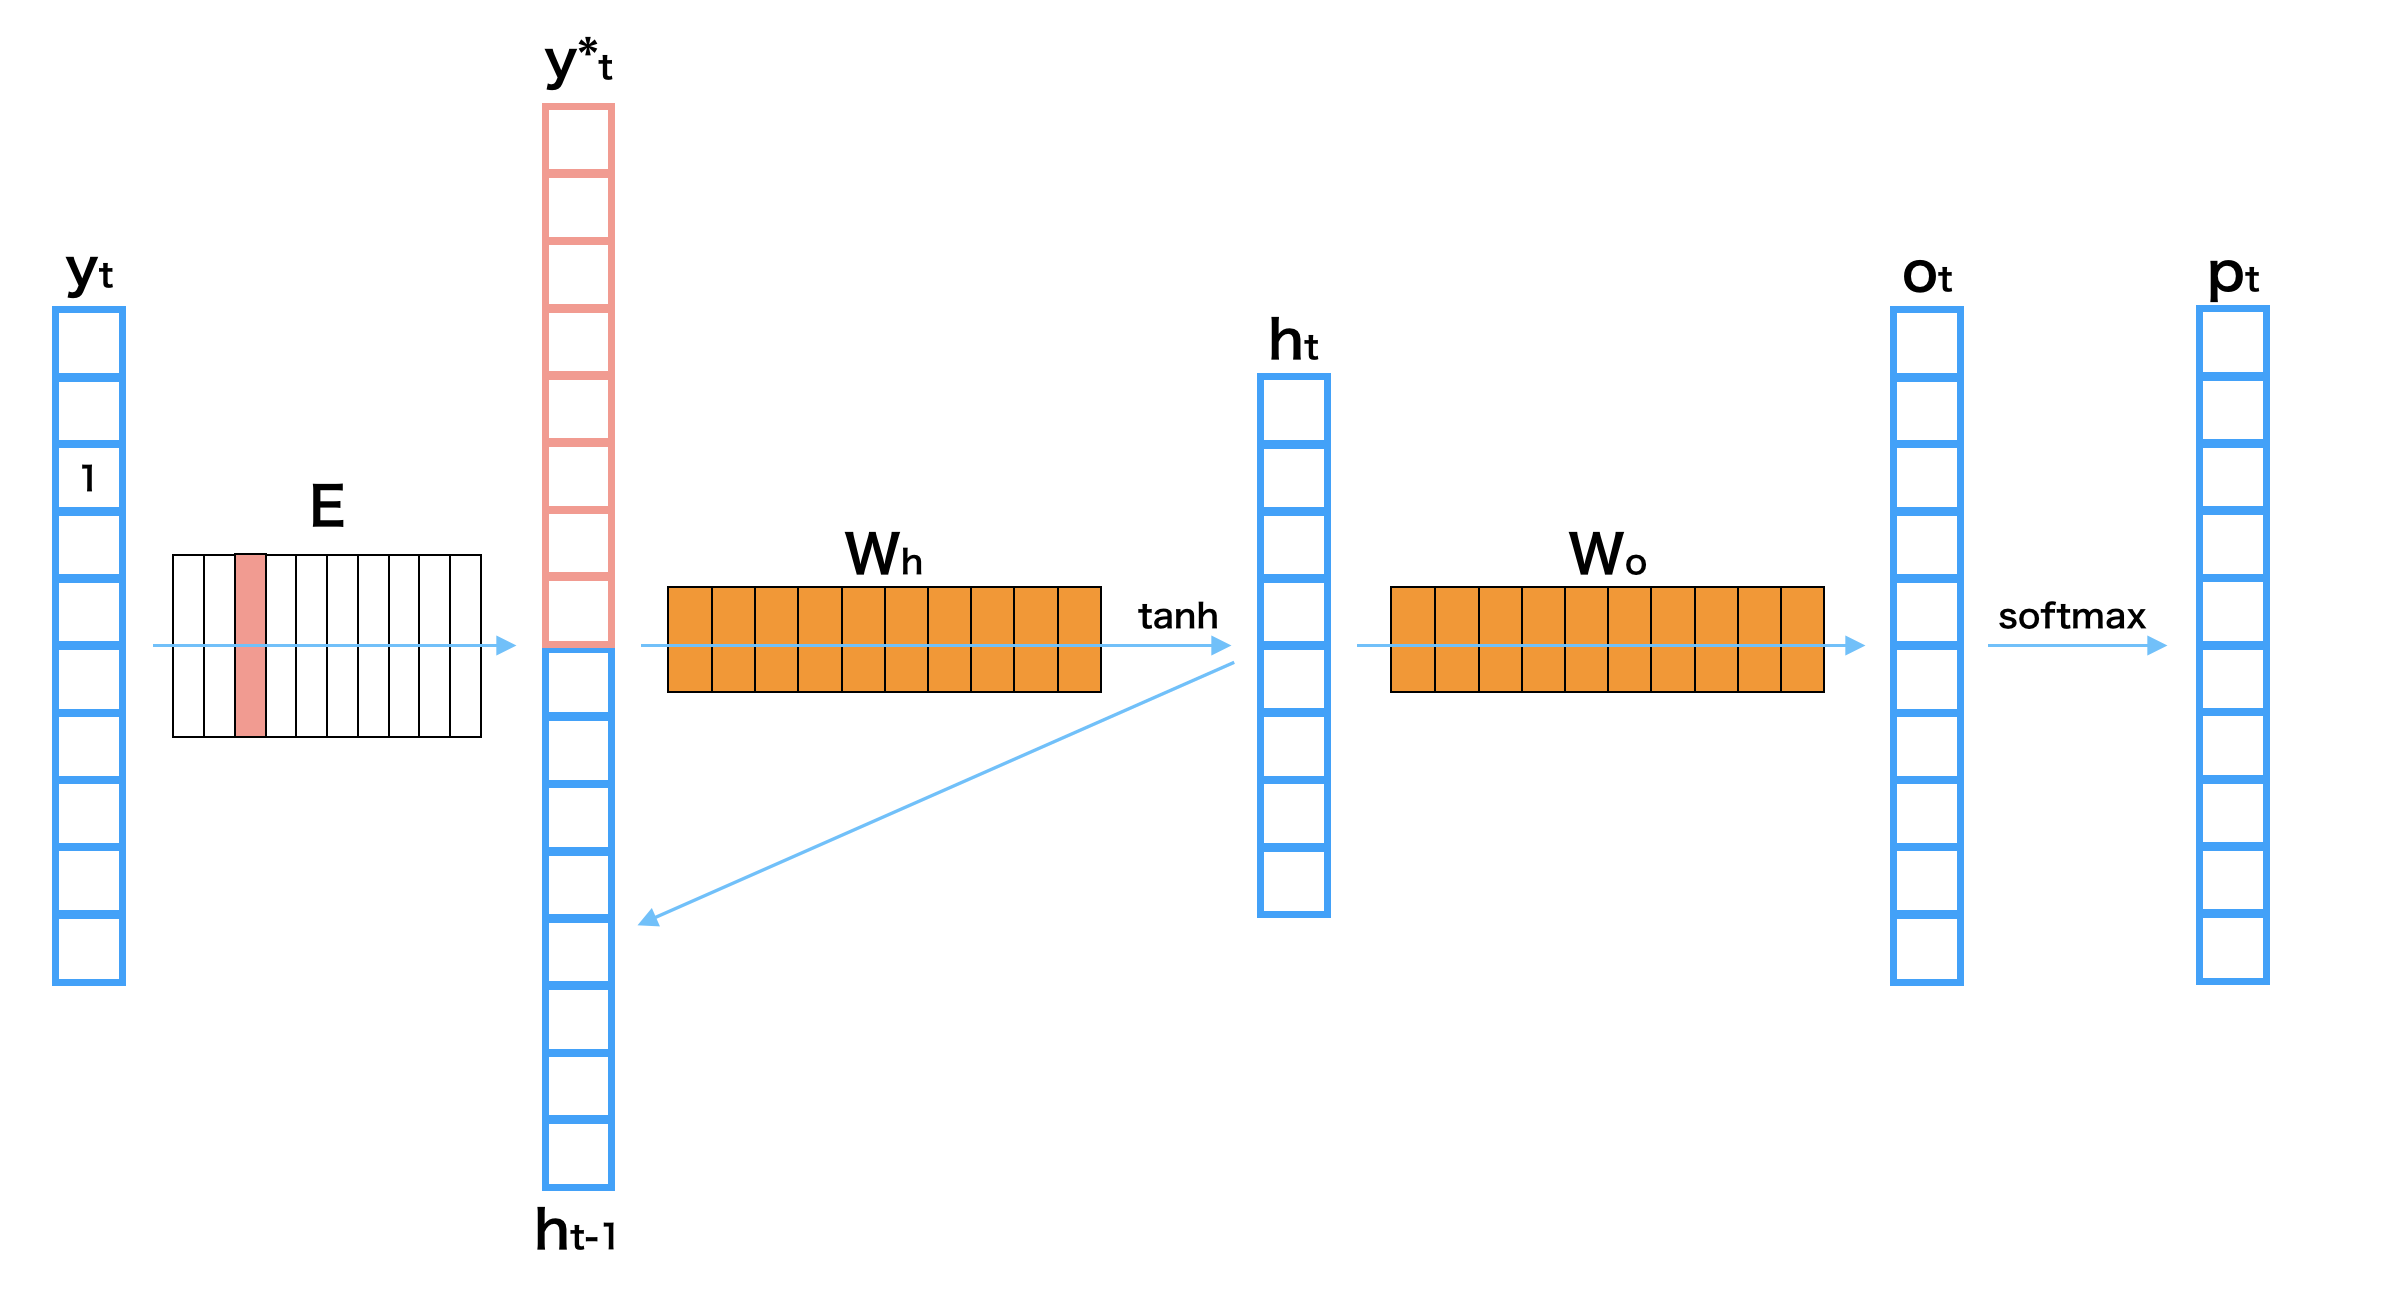
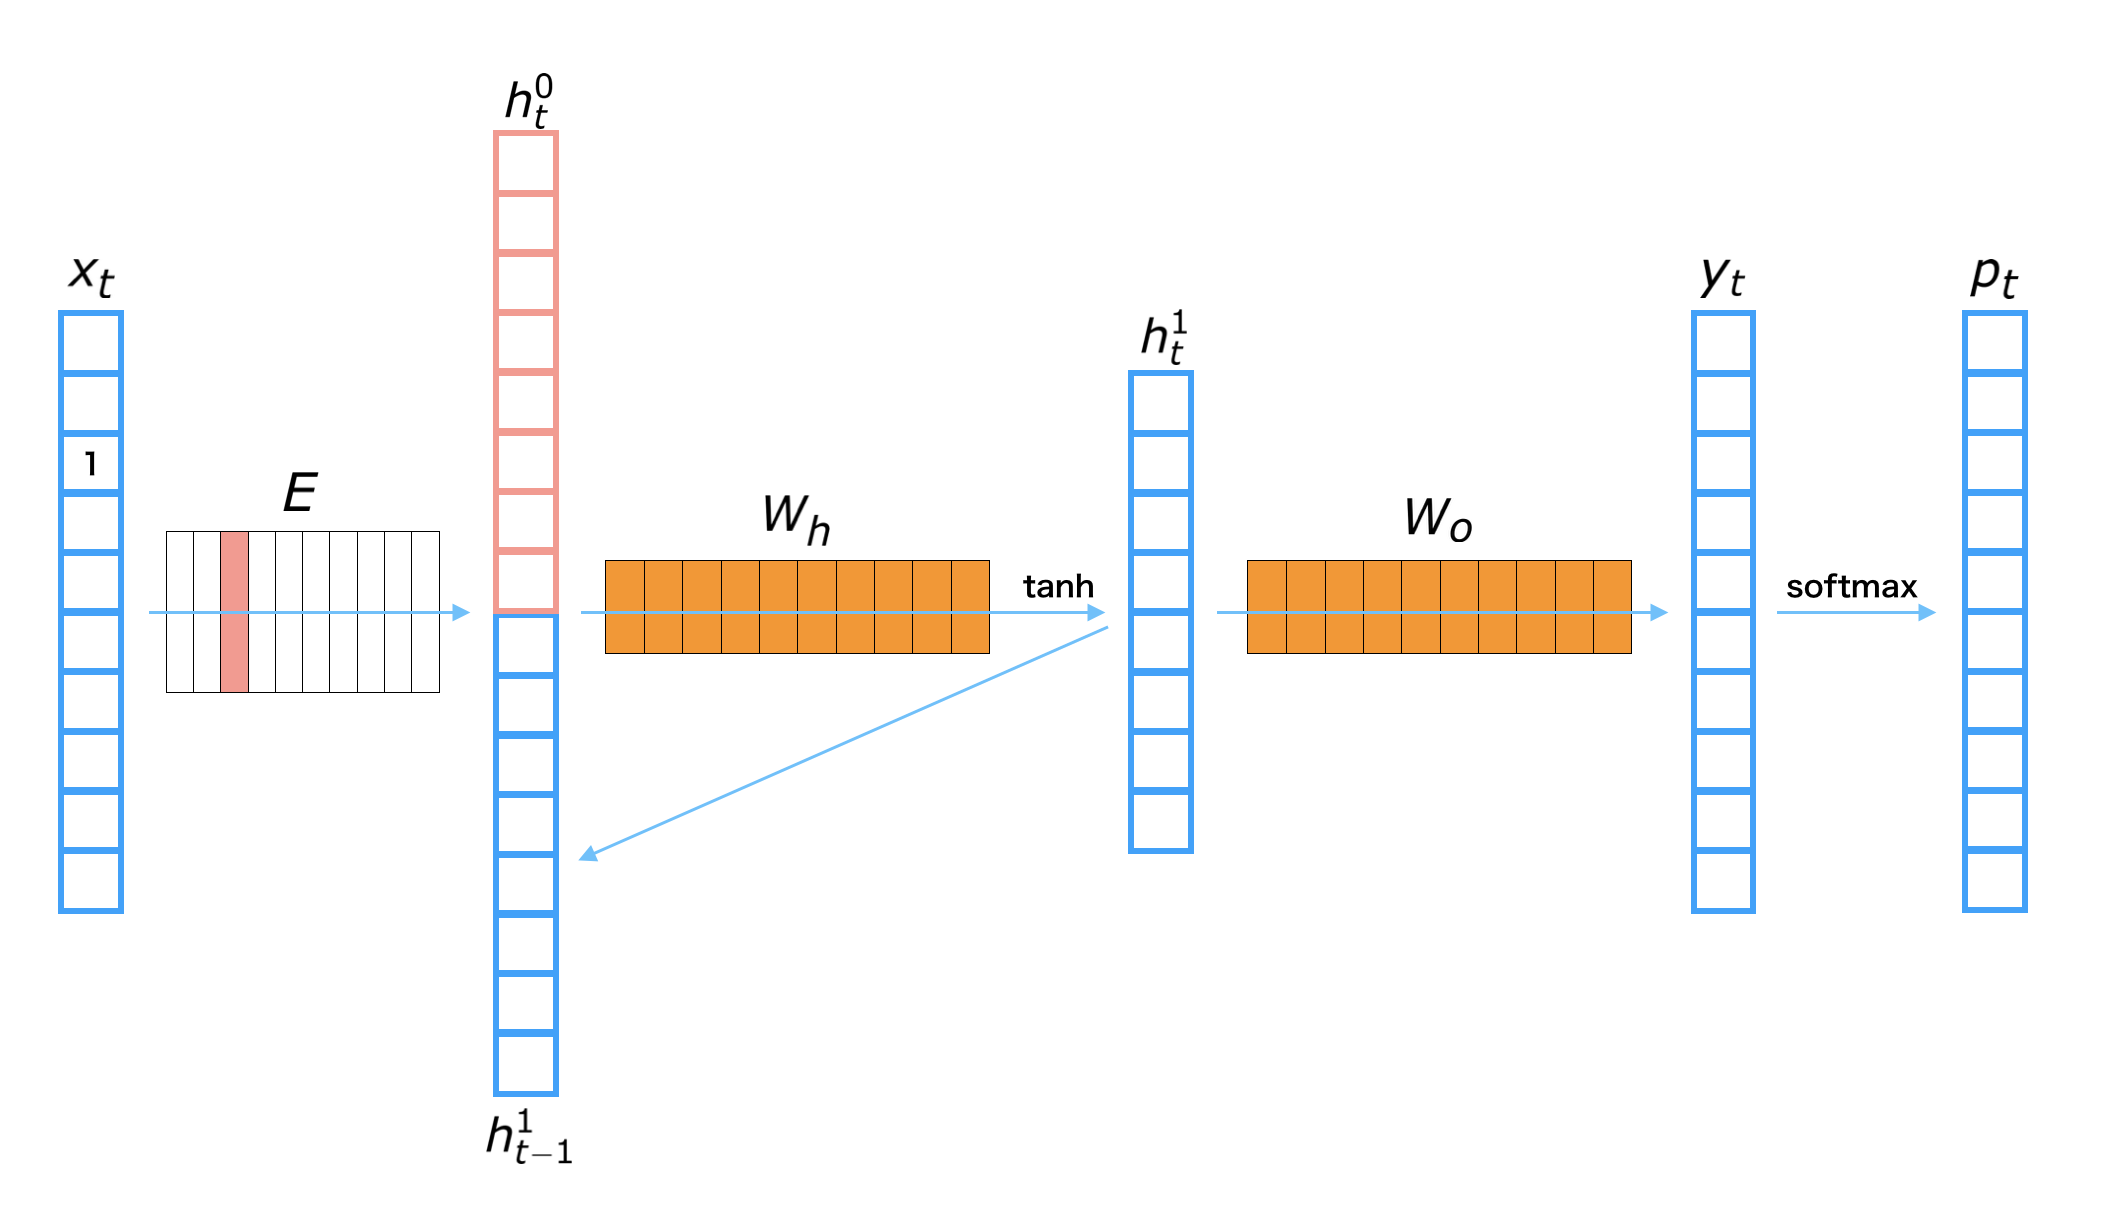
change the notation

Changed region(s): [[0.0, 0.0309, 0.9877, 0.9577], [0.3395, 0.6179, 0.3704, 0.6488], [0.3086, 0.6488, 0.3395, 0.6797]]

diff --git a/docs/source/tutorial/ptb.rst b/docs/source/tutorial/ptb.rst
@@ -12,21 +12,21 @@ natural a sentence or a document is. Also, with the language model, you can
 generate new sentences or documents.
 
 Let's start with modeling the probability of generating sentences. We represent
-a sentence be :math:`Y = (y_0, y_1, ..., y_T)`, in which :math:`y_t` is a
+a sentence be :math:`X = (x_0, x_1, ..., x_T)`, in which :math:`x_t` is a
 one-hot vector.
-Generally, :math:`y_0` is the one-hot vector of **BOS** (beginning of sentence),
-and :math:`y_T` is that  of **EOS** (end of sentence).
+Generally, :math:`x_0` is the one-hot vector of **BOS** (beginning of sentence),
+and :math:`x_T` is that  of **EOS** (end of sentence).
 
 In the case of language model, we usually model the probability of generating
-the next word under the condition of the previous words. Let :math:`Y[i, j]` be
-:math:`(y_i, y_{i+1}, ..., y_j)`, the occurrence probability of sentence :math:`Y`
+the next word under the condition of the previous words. Let :math:`X[i, j]` be
+:math:`(x_i, x_{i+1}, ..., x_j)`, the occurrence probabilitx of sentence :math:`X`
 can be
 
-.. math:: P(Y) = P(y_0) \prod_{t=1}^T P(y_t|Y[0, t-1])
+.. math:: P(X) = P(x_0) \prod_{t=1}^T P(x_t|X[0, t-1])
 
-As you see above, the occurrence probability :math:`P(Y)` can be decomposed into
-the conditional probability by the previous words :math:`P(y_t|Y[0, t-1])`.
-So, in the language model, we model :math:`P(y_t|Y[0, t-1])`.
+As you see above, the occurrence probability :math:`P(X)` can be decomposed into
+the conditional probability by the previous words :math:`P(x_t|X[0, t-1])`.
+So, in the language model, we model :math:`P(x_t|X[0, t-1])`.
 
 
 1. Basic Idea of Recurrent Neural Net Language Model
@@ -37,13 +37,17 @@ language model which contains the RNN in the network. Since the RNN can deal wit
 the variable length inputs, it is suitable for modeling the sequential data such
 that natural languages. 
 
-The probablity of generating the sentence :math:`Y` is denoted as
-:math:`P_{\rm model}(Y)`,
+The probablity of generating the sentence :math:`X` is denoted as
+:math:`P_{\rm model}(X)`,
 
-.. math:: P_{\rm model}(Y) = P(y_0) \prod_{t=1}^T P(y_t|Y[0, t-1])
+.. math:: P_{\rm model}(X) = P(x_0) \prod_{t=1}^T P(x_t|X[0, t-1])
 
 We show the one layer of the RNN language model with these parameters.
 
+* :math:`x_t` : the one-hot vector of :math:`t`-th word.
+* :math:`y_t` : the :math:`t`-th output.
+* :math:`h_t^i` : the :math:`t`-th hidden layer of `i`-th layer.
+* :math:`p_t` : the next word's probability of :math:`t`-th word.
 * :math:`E` : Embedding matrix
 * :math:`W_h` : Hidden layer matrix
 * :math:`W_o` : Output layer matrix
@@ -52,19 +56,19 @@ We show the one layer of the RNN language model with these parameters.
 
 #. Get the embedding vector
 
-    .. math:: y_t^* = Ey_{t-1}
+    .. math:: h_t^0 = Ex_t
 
 #. Calculate the hidden layer
 
-    .. math:: h_t = {\rm tanh}(W_h [y_t^*; h_{t-1}])
+    .. math:: h_t^1 = {\rm tanh}(W_h [h_t^0; h_{t-1}^1])
 
 #. Calculate the output layer
 
-    .. math:: o_t = W_o h_t
+    .. math:: y_t = W_o h_t^1
 
 #. Transform to probability
 
-    .. math:: p_t = {\rm softmax}(o_t)
+    .. math:: p_t = {\rm softmax}(y_t)
 
 2. Implementation of Recurrent Neural Net Language Model
 =========================================================
